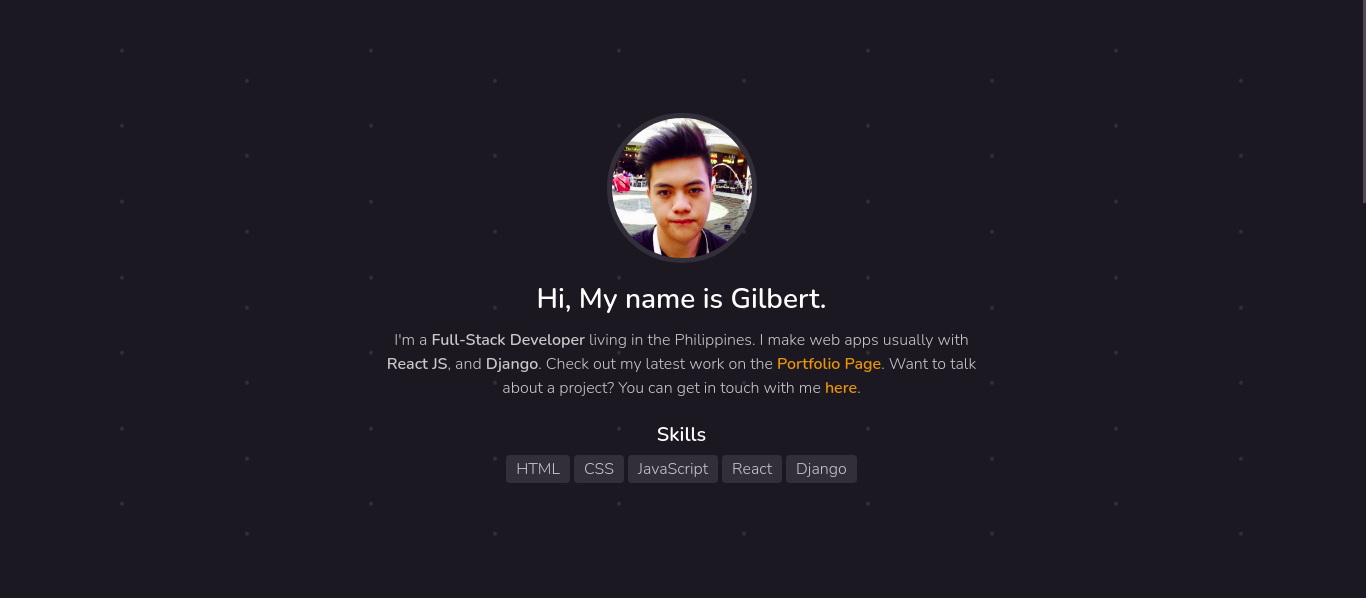
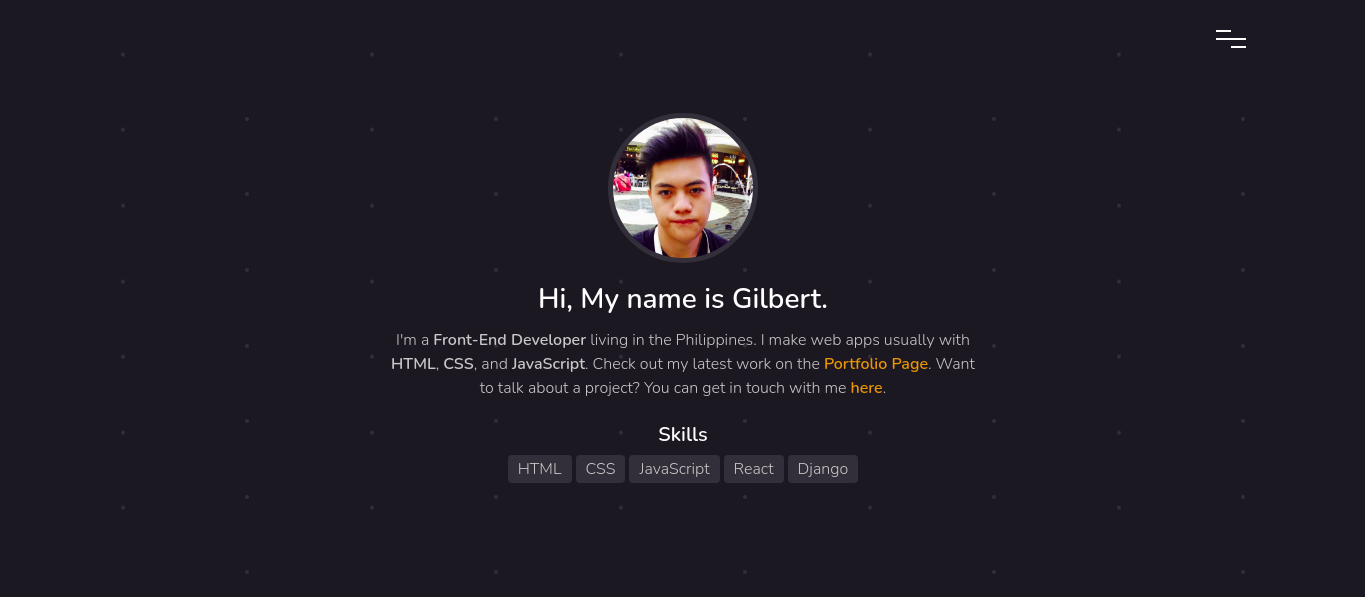
update details

diff --git a/index.html b/index.html
@@ -17,7 +17,7 @@
     <link rel="stylesheet" href="css/style.css" />
 
     <title>
-      Full-Stack Developer Portfolio - HTML, CSS, JavaScript, React JS, Django
+      Front-End Developer Portfolio - HTML, CSS, JavaScript, React JS, Django
     </title>
   </head>
   <body>
@@ -60,11 +60,12 @@
           />
           <h1 class="about__heading">Hi, My name is Gilbert.</h1>
           <p>
-            I'm a <span class="text-bold">Full-Stack Developer</span> living in
+            I'm a <span class="text-bold">Front-End Developer</span> living in
             the Philippines. I make web apps usually with
-            <span class="text-bold">React JS</span>, and
-            <span class="text-bold">Django</span>. Check out my latest work on
-            the
+            <span class="text-bold">HTML</span>,
+            <span class="text-bold">CSS</span>, and
+            <span class="text-bold">JavaScript</span>. Check out my latest work
+            on the
             <a href="#portfolio" class="text-bold text-primary about__link"
               >Portfolio Page</a
             >. Want to talk about a project? You can get in touch with me
@@ -80,7 +81,6 @@
               <li class="skills__item">CSS</li>
               <li class="skills__item">JavaScript</li>
               <li class="skills__item">React</li>
-
               <li class="skills__item">Django</li>
             </ul>
           </div>
@@ -104,20 +104,20 @@
           </li>
           <li>
             <button
-              title="Filter by HTML/CSS"
-              data-filter="html-css"
+              title="Filter by Front-End"
+              data-filter="front-end"
               class="filter__button"
             >
-              HTML/CSS
+              Front-End
             </button>
           </li>
           <li>
             <button
-              title="Filter by Full-Stack"
-              data-filter="full-stack"
+              title="Filter by Back-End"
+              data-filter="back-end"
               class="filter__button"
             >
-              Full-Stack
+              Back-End
             </button>
           </li>
         </ul>
@@ -127,7 +127,7 @@
         </div>
 
         <div class="portfolio-item-wrapper">
-          <div data-category="html-css" class="portfolio-item">
+          <div data-category="front-end" class="portfolio-item">
             <div class="portfolio-item__thumbnail">
               <img
                 src="img/archmove/1.png"
@@ -175,7 +175,7 @@
               </ul>
             </div>
           </div>
-          <div data-category="html-css" class="portfolio-item">
+          <div data-category="front-end" class="portfolio-item">
             <div class="portfolio-item__thumbnail">
               <img
                 src="img/portfolio/landing.png"
@@ -194,7 +194,7 @@
               <p class="portfolio-item__desc">
                 Built with custom VanillaJS and written entirely on HTML, and
                 CSS. This website is a showcase of my recent projects as a
-                Full-Stack Web Developer.
+                Front-End & Back-End Web Developer.
 
                 <br />
                 <br />
@@ -234,13 +234,13 @@
                     href="https://github.com/gilbertlc/portfolio"
                     target="_blank"
                     class="text-primary"
-                    >https://github.com/gilbertlc/myportfolio</a
+                    >https://github.com/gilbertlc/portfolio</a
                   >
                 </li>
               </ul>
             </div>
           </div>
-          <div data-category="full-stack" class="portfolio-item">
+          <div data-category="front-end,back-end" class="portfolio-item">
             <div class="portfolio-item__thumbnail">
               <img
                 src="img/dili/dashboard.png"
@@ -271,7 +271,8 @@
                 </li>
                 <li class="mb-10">
                   <span class="text-bold mr-5">Technologies Used -</span>
-                  Python, Django, jQuery, Bootstrap, MySQL, Google Maps API
+                  HTML, CSS, jQuery, Bootstrap, Python, Django, MySQL, Google
+                  Maps API
                 </li>
                 <li class="mb-10">
                   <span class="text-bold mr-5">Role -</span>
@@ -280,7 +281,7 @@
               </ul>
             </div>
           </div>
-          <div data-category="full-stack" class="portfolio-item">
+          <div data-category="front-end,back-end" class="portfolio-item">
             <div class="portfolio-item__thumbnail">
               <img
                 src="img/sjnhs/vote.png"
@@ -311,7 +312,7 @@
                 </li>
                 <li class="mb-10">
                   <span class="text-bold mr-5">Technologies Used -</span>
-                  PHP, jQuery, MySQL, Bootstrap
+                  HTML, CSS, jQuery, Bootstrap, PHP, MySQL
                 </li>
                 <li class="mb-10">
                   <span class="text-bold mr-5">Role -</span>
